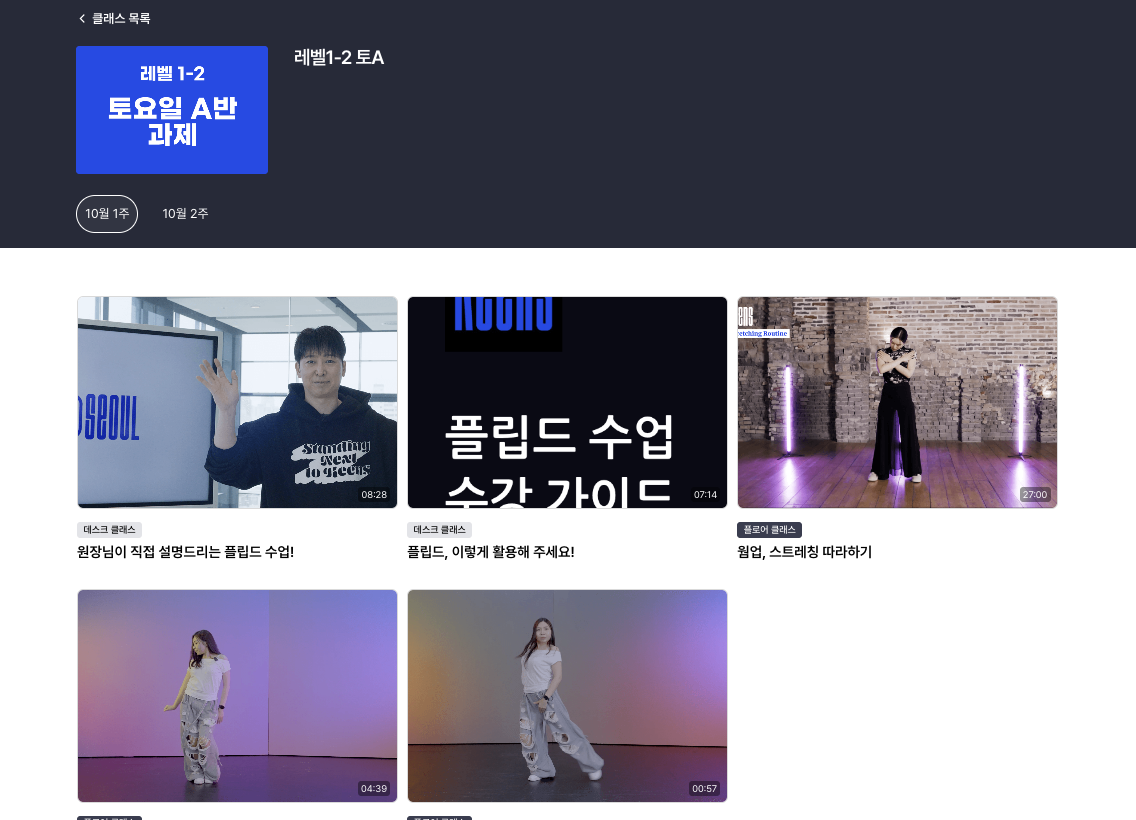
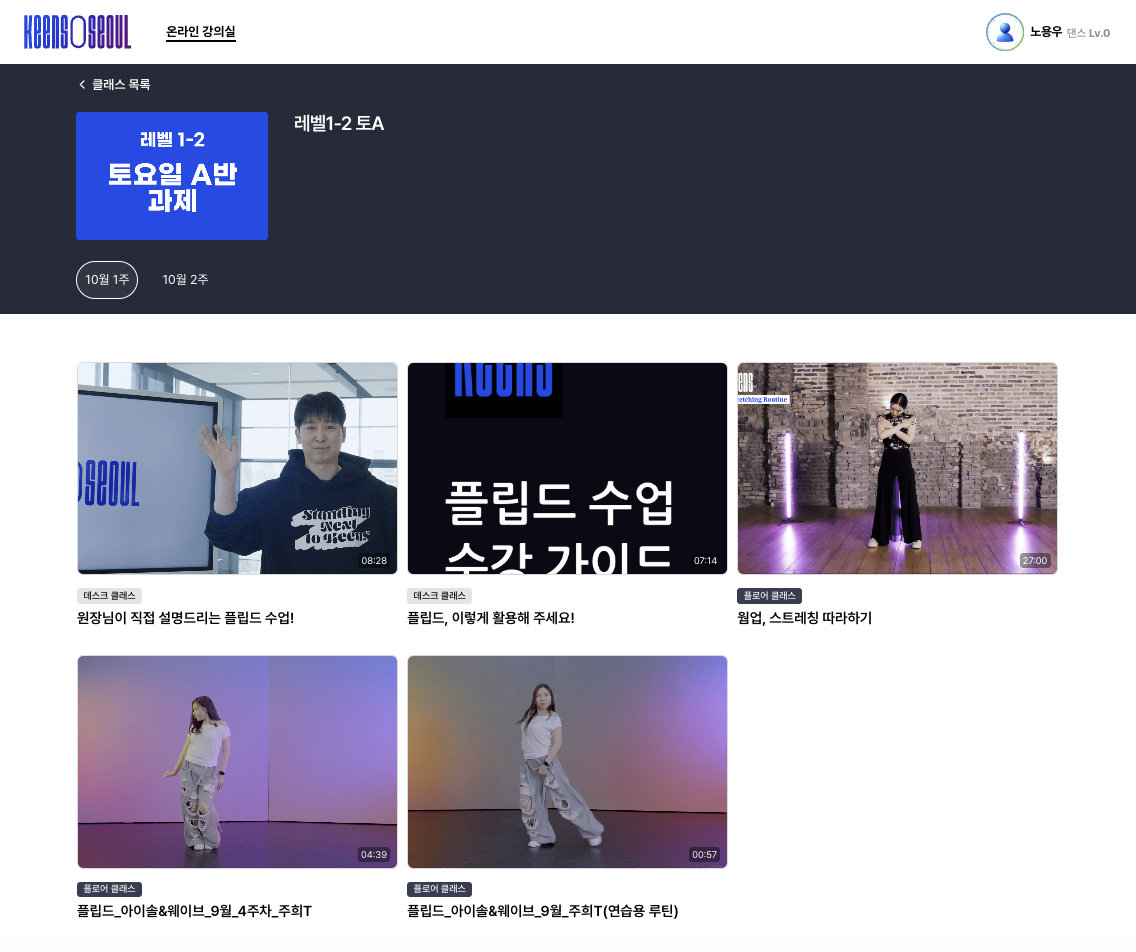
Refine LMS proof image and live class visual

diff --git a/lms/styles.css b/lms/styles.css
@@ -25,7 +25,8 @@
 .proof-heading h2 span{color:var(--blue)}
 .proof-heading p:last-child{font-size:1.08rem;color:var(--muted);line-height:1.85;margin:21px 0 0}
 .proof-screen{margin:0;background:#f2f5fb;border:1px solid #d9e0ec;padding:18px 18px 12px;box-shadow:0 30px 70px #14254b1c}
-.proof-screen img{width:100%;height:auto;display:block}
+.proof-screen-viewport{width:100%;aspect-ratio:1136/888;overflow:hidden;background:#fff}
+.proof-screen-viewport img{width:100%;height:auto;display:block;transform:translateY(-6.7227%)}
 .proof-screen figcaption{padding:13px 3px 0;font-size:.84rem;color:#58677d;font-weight:700}
 .continuity-grid{grid-template-columns:1.1fr .9fr;align-items:center;gap:80px}
 .continuity-copy .continuity-body{max-width:560px;margin-top:32px}
@@ -49,7 +50,23 @@
 .live-access span{width:8px;height:8px;flex:none;border-radius:50%;background:#91b2ff}
 .live-button{display:flex;width:max-content;margin-top:24px}
 .live-visual{margin:0}
-.live-visual img{display:block;width:100%;aspect-ratio:4/3;object-fit:cover;object-position:center;border:1px solid #7284ac;box-shadow:0 24px 65px #070d2080}
+.meeting-window{overflow:hidden;border:1px solid #647493;border-radius:13px;background:#11141b;box-shadow:0 24px 65px #070d2080}
+.meeting-topbar{height:39px;display:flex;align-items:center;justify-content:space-between;gap:12px;padding:0 13px;background:#22252c;color:#d9e1ee;font-size:.68rem;font-weight:700;letter-spacing:.02em}
+.meeting-live{display:flex;align-items:center;gap:6px;color:#fff;background:#ba3039;padding:4px 7px;border-radius:4px;font-family:'DM Sans',sans-serif;font-size:.58rem;letter-spacing:.08em}
+.meeting-live span{width:5px;height:5px;background:#fff;border-radius:50%}
+.meeting-title{overflow:hidden;text-overflow:ellipsis;white-space:nowrap}
+.meeting-menu{font-size:1.12rem;line-height:1;color:#aeb8ca;letter-spacing:2px}
+.meeting-stage{position:relative;background:#303139}
+.meeting-stage>img{display:block;width:100%;height:auto;aspect-ratio:1134/641;object-fit:contain}
+.meeting-speaker{position:absolute;left:10px;bottom:10px;background:#151820ce;border-radius:4px;padding:5px 8px;color:#fff;font-size:.7rem;font-weight:700}
+.meeting-self-view{position:absolute;right:12px;bottom:12px;width:25%;max-width:135px;aspect-ratio:16/10;border:1px solid #777f90;border-radius:5px;background:linear-gradient(145deg,#2b3550,#192034);box-shadow:0 3px 15px #0b102a8a;display:flex;align-items:center;justify-content:center}
+.meeting-self-avatar{display:grid;place-items:center;width:35px;height:35px;border-radius:50%;background:#6b7da8;color:#fff;font-size:.92rem;font-weight:800}
+.meeting-self-label{position:absolute;left:5px;bottom:4px;background:#0a0d14a8;padding:2px 4px;font-size:.56rem;color:#e1e8f6}
+.meeting-toolbar{height:63px;display:flex;align-items:center;justify-content:center;gap:26px;padding:7px 12px;background:#22252c}
+.meeting-tool{display:flex;align-items:center;flex-direction:column;gap:3px;color:#e4e9f1}
+.meeting-tool svg{width:18px;height:18px;stroke:currentColor;stroke-width:1.8;stroke-linecap:round;stroke-linejoin:round}
+.meeting-tool small{font-size:.59rem;white-space:nowrap}
+.meeting-leave{align-self:center;color:#fff;background:#b53038;border-radius:5px;padding:7px 12px;font-size:.65rem;font-weight:700;white-space:nowrap}
 .live-visual figcaption{color:#bfcdf0;font-size:.82rem;font-weight:700;margin-top:12px}
 @media(max-width:850px){.live-grid{grid-template-columns:1fr;gap:38px}.live-visual{max-width:650px}}
-@media(max-width:600px){.practice-lead{font-size:1rem;margin-top:20px}.live-copy h2{font-size:clamp(2.05rem,8vw,3rem)}.live-lead{font-size:1rem;margin-top:22px}.live-access{font-size:.83rem;margin-top:25px}.live-button{width:100%;margin-top:22px}.live-visual img{aspect-ratio:4/3}.live-visual figcaption{font-size:.75rem}}
+@media(max-width:600px){.practice-lead{font-size:1rem;margin-top:20px}.live-copy h2{font-size:clamp(2.05rem,8vw,3rem)}.live-lead{font-size:1rem;margin-top:22px}.live-access{font-size:.83rem;margin-top:25px}.live-button{width:100%;margin-top:22px}.meeting-topbar{height:34px;padding:0 9px}.meeting-toolbar{height:54px;gap:16px;padding:5px 8px}.meeting-tool svg{width:16px;height:16px}.meeting-tool small{font-size:.5rem}.meeting-leave{padding:6px 8px;font-size:.55rem}.meeting-self-view{right:7px;bottom:7px}.meeting-self-avatar{width:27px;height:27px;font-size:.75rem}.meeting-speaker{left:6px;bottom:6px;font-size:.55rem}.live-visual figcaption{font-size:.75rem}}

diff --git a/lms/index.html b/lms/index.html
@@ -89,7 +89,7 @@
     <section class="lms-proof section" aria-labelledby="lms-proof-title">
       <div class="container">
         <div class="proof-heading"><p class="section-label">A LOOK INSIDE · VIDEO CLASS</p><h2 id="lms-proof-title">선생님 영상,<br><span>필요할 때 다시 봐요.</span></h2><p>수강 중인 클래스의 과제와 설명, 워밍업 영상을 골라 보며 집에서도 연습할 수 있어요.</p></div>
-        <figure class="proof-screen"><img src="./assets/lms-overview.png" alt="과제, 수업 설명, 워밍업과 스트레칭 영상이 보이는 킨즈서울 온라인 강의 목록" loading="lazy"><figcaption>킨즈서울 영상 강의 실제 화면</figcaption></figure>
+        <figure class="proof-screen"><div class="proof-screen-viewport"><img src="./assets/lms-overview.png" alt="과제, 수업 설명, 워밍업과 스트레칭 영상이 끝까지 보이는 킨즈서울 온라인 강의 목록" loading="lazy"></div><figcaption>킨즈서울 영상 강의 실제 화면</figcaption></figure>
       </div>
     </section>
 
@@ -102,7 +102,24 @@
           <p class="live-access"><span aria-hidden="true"></span>킨즈서울 수강생이라면 누구나 이용 가능</p>
           <a class="button button-light live-button" href="https://keensseoul.channel.io" target="_blank" rel="noopener noreferrer">킨즈서울 수업 알아보기</a>
         </div>
-        <figure class="live-visual"><img src="./assets/live-class-teacher.png" alt="킨즈서울 라이브 클래스에서 선생님이 춤을 보여주는 화면" loading="lazy"><figcaption>킨즈서울 라이브 클래스 화면</figcaption></figure>
+        <figure class="live-visual">
+          <div class="meeting-window" role="img" aria-label="선생님 영상을 화상 수업 화면으로 연출한 이미지">
+            <div class="meeting-topbar" aria-hidden="true"><span class="meeting-live"><span></span> LIVE</span><span class="meeting-title">킨즈서울 라이브 클래스</span><span class="meeting-menu">•••</span></div>
+            <div class="meeting-stage">
+              <img src="./assets/live-class-teacher.png" alt="" loading="lazy">
+              <span class="meeting-speaker">킨즈서울 선생님</span>
+              <div class="meeting-self-view" aria-hidden="true"><span class="meeting-self-avatar">나</span><span class="meeting-self-label">내 화면</span></div>
+            </div>
+            <div class="meeting-toolbar" aria-hidden="true">
+              <span class="meeting-tool"><svg viewBox="0 0 24 24" fill="none"><rect x="9" y="3" width="6" height="12" rx="3"/><path d="M5 11a7 7 0 0 0 14 0M12 18v3m-4 0h8"/></svg><small>마이크</small></span>
+              <span class="meeting-tool"><svg viewBox="0 0 24 24" fill="none"><rect x="3" y="6" width="13" height="12" rx="2"/><path d="m16 10 5-3v10l-5-3"/></svg><small>비디오</small></span>
+              <span class="meeting-tool"><svg viewBox="0 0 24 24" fill="none"><circle cx="9" cy="9" r="3"/><path d="M3 19v-2a5 5 0 0 1 10 0v2H3Zm12-12a3 3 0 0 1 0 6m1 2a4 4 0 0 1 5 4"/></svg><small>참여자</small></span>
+              <span class="meeting-tool"><svg viewBox="0 0 24 24" fill="none"><path d="M4 5h16v12H9l-5 4V5Z"/><path d="M8 9h8m-8 4h5"/></svg><small>채팅</small></span>
+              <span class="meeting-leave">나가기</span>
+            </div>
+          </div>
+          <figcaption>선생님 영상을 사용한 라이브 클래스 화면 연출</figcaption>
+        </figure>
       </div>
     </section>
 
